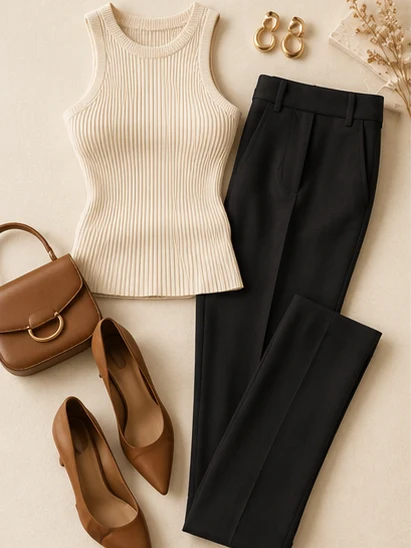
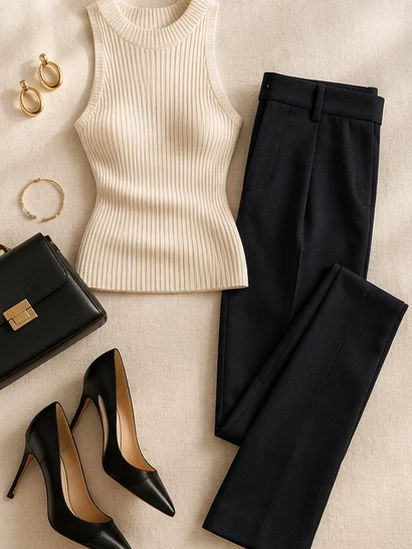
Onboarding : visuels Coupes remplacés par la seconde planche
Claude-Session: https://claude.ai/code/session_012QL3YtmR4vGBEaKjEs57SS

diff --git a/docs/onboarding-evolution/prompts-visuels.md b/docs/onboarding-evolution/prompts-visuels.md
@@ -1,6 +1,6 @@
 # Prompts des visuels — Mise en valeur et Coupes préférées
 
-31/10/2026. Coupes : reçues le 31/10/2026 (planche 3 + 2), découpées en 3:4 dans `public/onboarding/coupes/<option>.webp`. Mise en valeur : reçus le 31/10/2026 en planche 4 × 2, découpés en 3:4 (~300 × 400) dans `public/onboarding/mise-en-valeur/<option>.webp`.
+31/10/2026. Coupes : seconde planche retenue le 31/10/2026 (3 + 2 cases), découpées en 3:4 dans `public/onboarding/coupes/<option>.webp`. Mise en valeur : reçus le 31/10/2026 en planche 4 × 2, découpés en 3:4 (~300 × 400) dans `public/onboarding/mise-en-valeur/<option>.webp`.
 
 Pour un générateur d'images (ChatGPT). Visuels carrés, comme les vignettes de colorimétrie (`public/onboarding/colorimetrie/`, affichées en 288 × 288) : générer en 1024 × 1024, puis conversion en WebP au moment de l'intégration.
 
